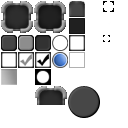
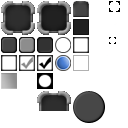
Finally updated atlas texture, style info and the min/mag filter options for optimal visuals.

diff --git a/src/tonegod/gui/core/Element.java b/src/tonegod/gui/core/Element.java
@@ -236,8 +236,8 @@ public class Element extends Node {
 			} else {
 				defaultTex = app.getAssetManager().loadTexture(texturePath);
 				defaultTex.setMinFilter(Texture.MinFilter.BilinearNoMipMaps);
-				defaultTex.setMagFilter(Texture.MagFilter.Bilinear);
-				defaultTex.setWrap(Texture.WrapMode.Repeat);
+				defaultTex.setMagFilter(Texture.MagFilter.Nearest);
+				defaultTex.setWrap(Texture.WrapMode.Clamp);
 
 				imgWidth = defaultTex.getImage().getWidth();
 				imgHeight = defaultTex.getImage().getHeight();
@@ -1978,8 +1978,8 @@ public class Element extends Node {
 		} else {
 			alpha = app.getAssetManager().loadTexture(alphaMap);
 			alpha.setMinFilter(Texture.MinFilter.BilinearNoMipMaps);
-			alpha.setMagFilter(Texture.MagFilter.Bilinear);
-			alpha.setWrap(Texture.WrapMode.Repeat);
+			alpha.setMagFilter(Texture.MagFilter.Nearest);
+			alpha.setWrap(Texture.WrapMode.Clamp);
 		}
 		
 		this.alphaMap = alpha;
@@ -2029,8 +2029,8 @@ public class Element extends Node {
 		} else {
 			color = app.getAssetManager().loadTexture(colorMap);
 			color.setMinFilter(Texture.MinFilter.BilinearNoMipMaps);
-			color.setMagFilter(Texture.MagFilter.Bilinear);
-			color.setWrap(Texture.WrapMode.Repeat);
+			color.setMagFilter(Texture.MagFilter.Nearest);
+			color.setWrap(Texture.WrapMode.Clamp);
 		}
 		
 		this.defaultTex = color;

diff --git a/src/tonegod/gui/core/Screen.java b/src/tonegod/gui/core/Screen.java
@@ -421,9 +421,9 @@ public class Screen implements ElementManager, Control, RawInputListener {
 		
 		if (texturePath != null) {
 			atlasTexture = app.getAssetManager().loadTexture(texturePath);
-			atlasTexture.setMinFilter(Texture.MinFilter.BilinearNearestMipMap);
-			atlasTexture.setMagFilter(Texture.MagFilter.Bilinear);
-			atlasTexture.setWrap(Texture.WrapMode.Repeat);
+			atlasTexture.setMinFilter(Texture.MinFilter.BilinearNoMipMaps);
+			atlasTexture.setMagFilter(Texture.MagFilter.Nearest);
+			atlasTexture.setWrap(Texture.WrapMode.Clamp);
 		} else {
 			atlasTexture = null;
 		}
@@ -439,8 +439,8 @@ public class Screen implements ElementManager, Control, RawInputListener {
 	public Texture createNewTexture(String texturePath) {
 		Texture newTex = app.getAssetManager().loadTexture(texturePath);
 		newTex.setMinFilter(Texture.MinFilter.BilinearNoMipMaps);
-		newTex.setMagFilter(Texture.MagFilter.Bilinear);
-		newTex.setWrap(Texture.WrapMode.Repeat);
+		newTex.setMagFilter(Texture.MagFilter.Nearest);
+		newTex.setWrap(Texture.WrapMode.Clamp);
 		return newTex;
 	}
 	
